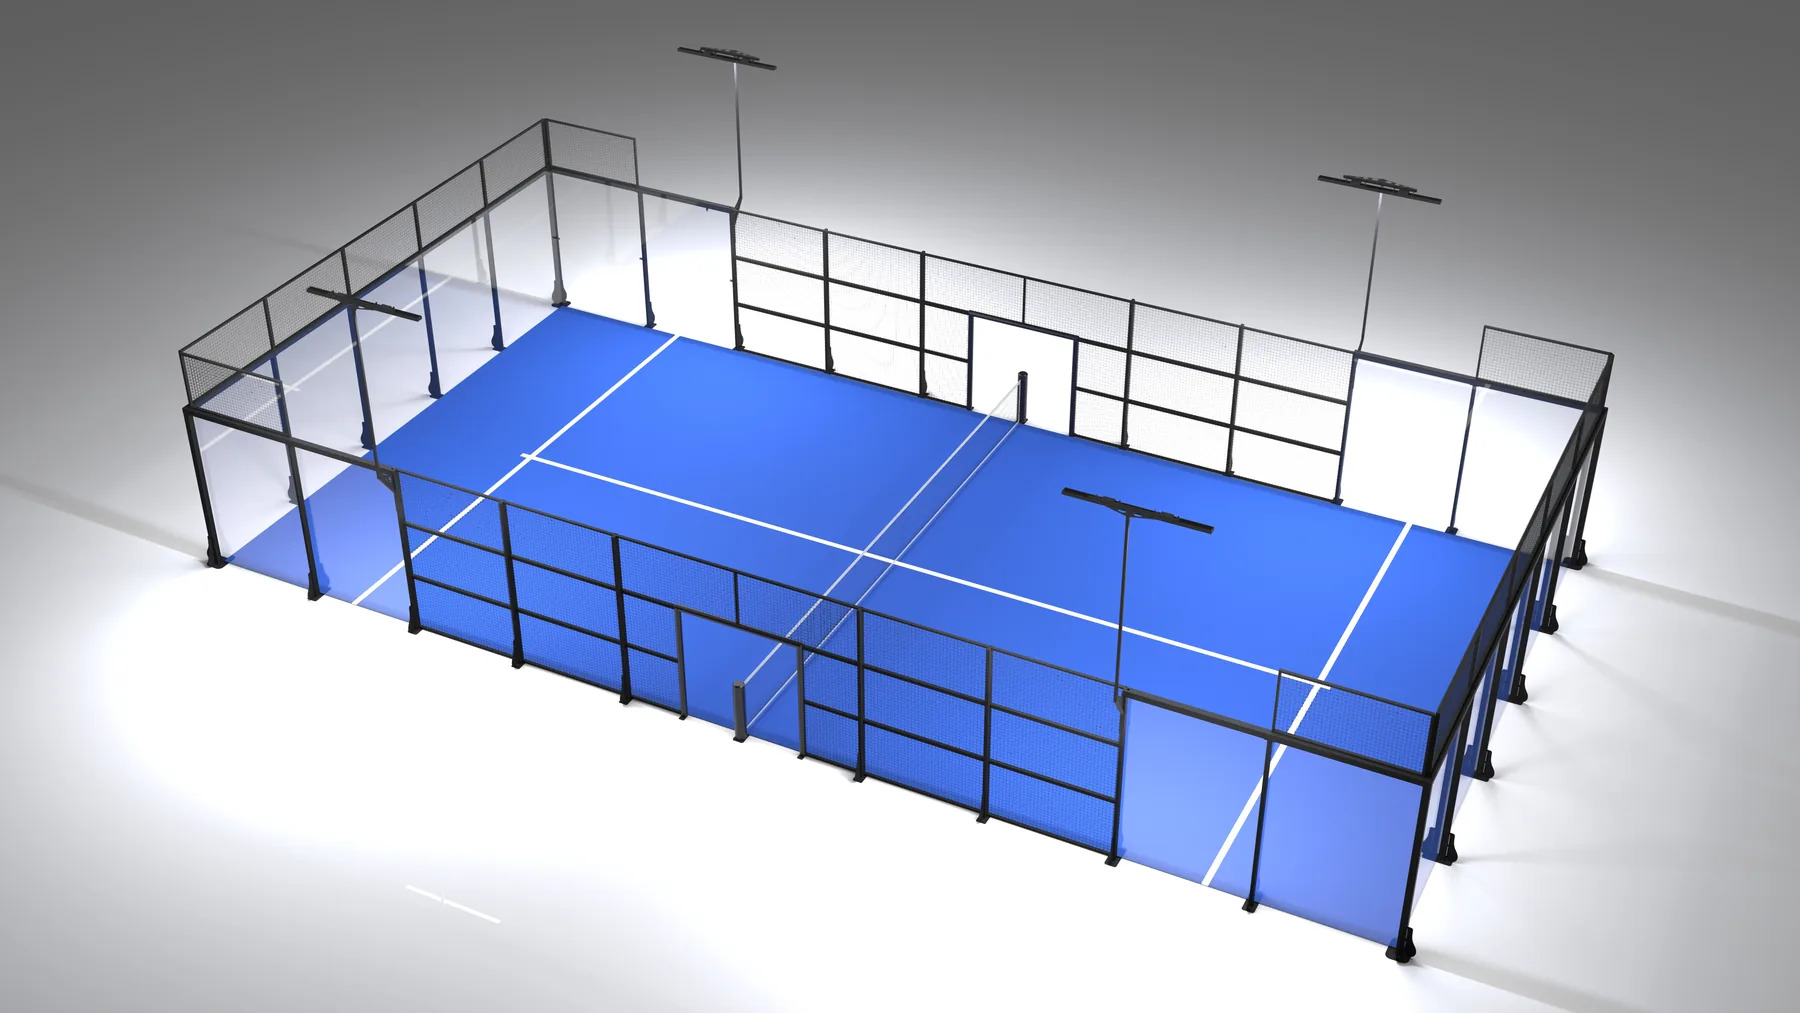
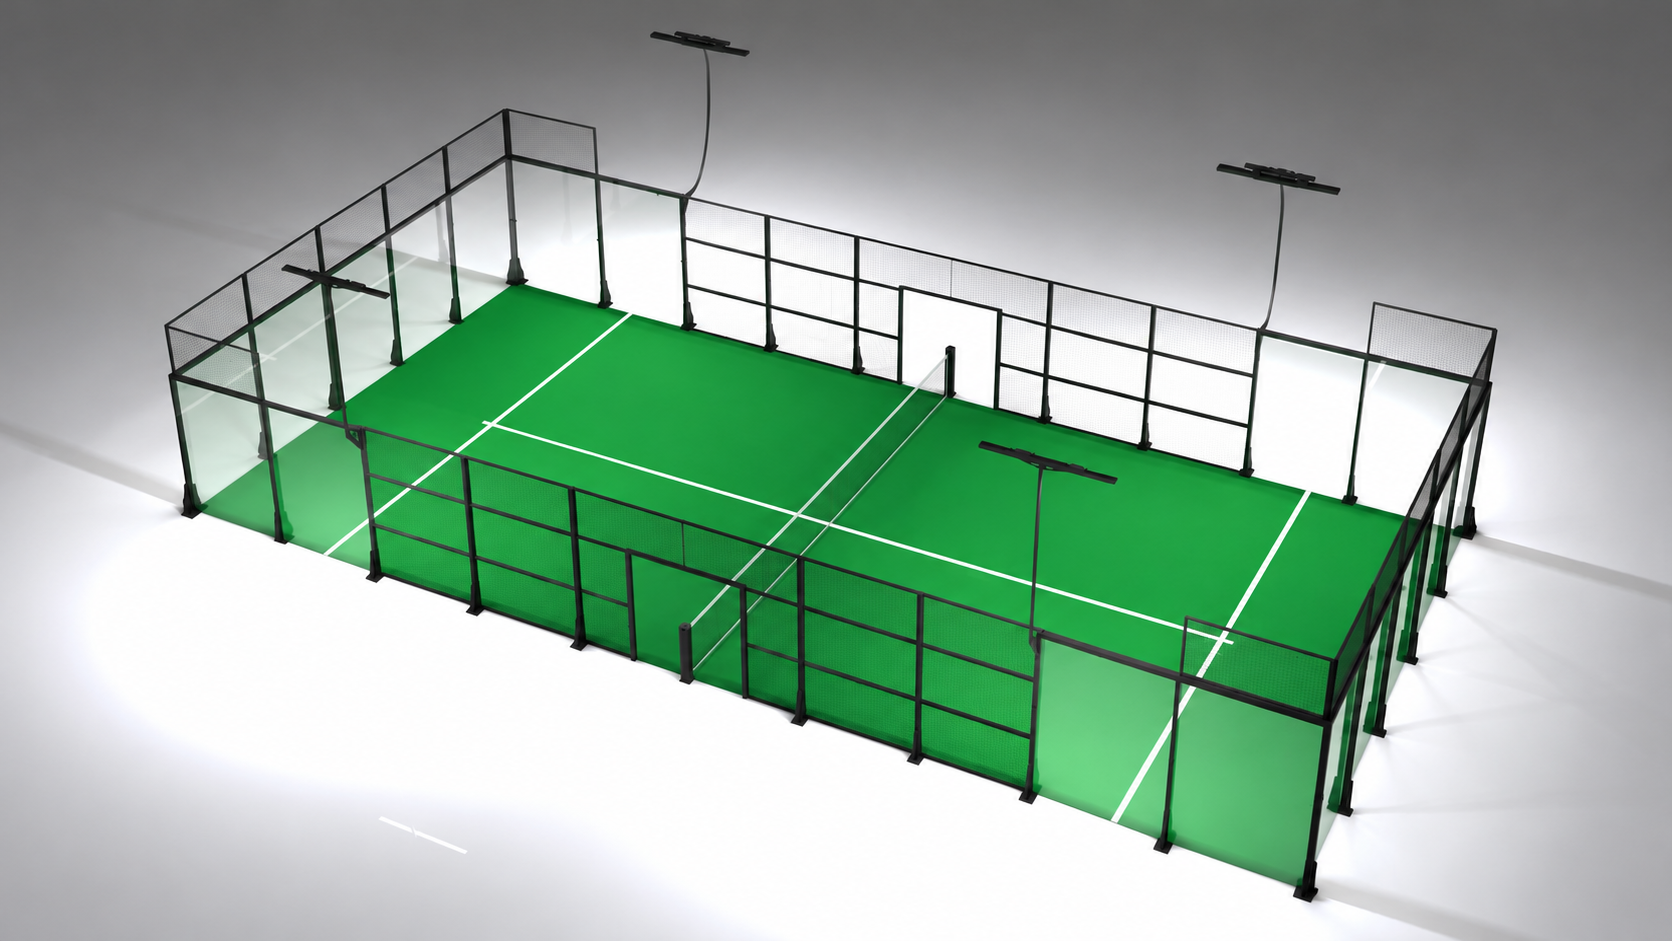
image changes for navbar

Changed region(s): [[0.0311, 0.1233, 0.9641, 0.9554], [0.3732, 0.0308, 0.4665, 0.0925], [0.0, 0.4623, 0.0311, 0.4931]]

diff --git a/src/data/site.js b/src/data/site.js
@@ -27,8 +27,8 @@ export const media = {
     extreme: '/media/knd/courts/tournamentrender.jpg',
     superpanoramic: '/media/knd/courts/superpanormamicrender.jpg',
     signature: '/media/knd/courts/tournamentrender.jpg',
-    fullSuper: '/brand/brandbook-05.png',
-    extremeSheet: '/brand/brandbook-06.png',
+    fullSuper: '/media/knd/courts/fullsuperpanoramicrender.webp',
+    extremeSheet: '/media/knd/courts/extremerender.webp',
     classic: '/media/knd/courts/classicrender.jpg',
     singlecourts: '/media/knd/courts/singlecourtrender.jpg',
     torneo: '/media/knd/courts/torneo.jpg',
